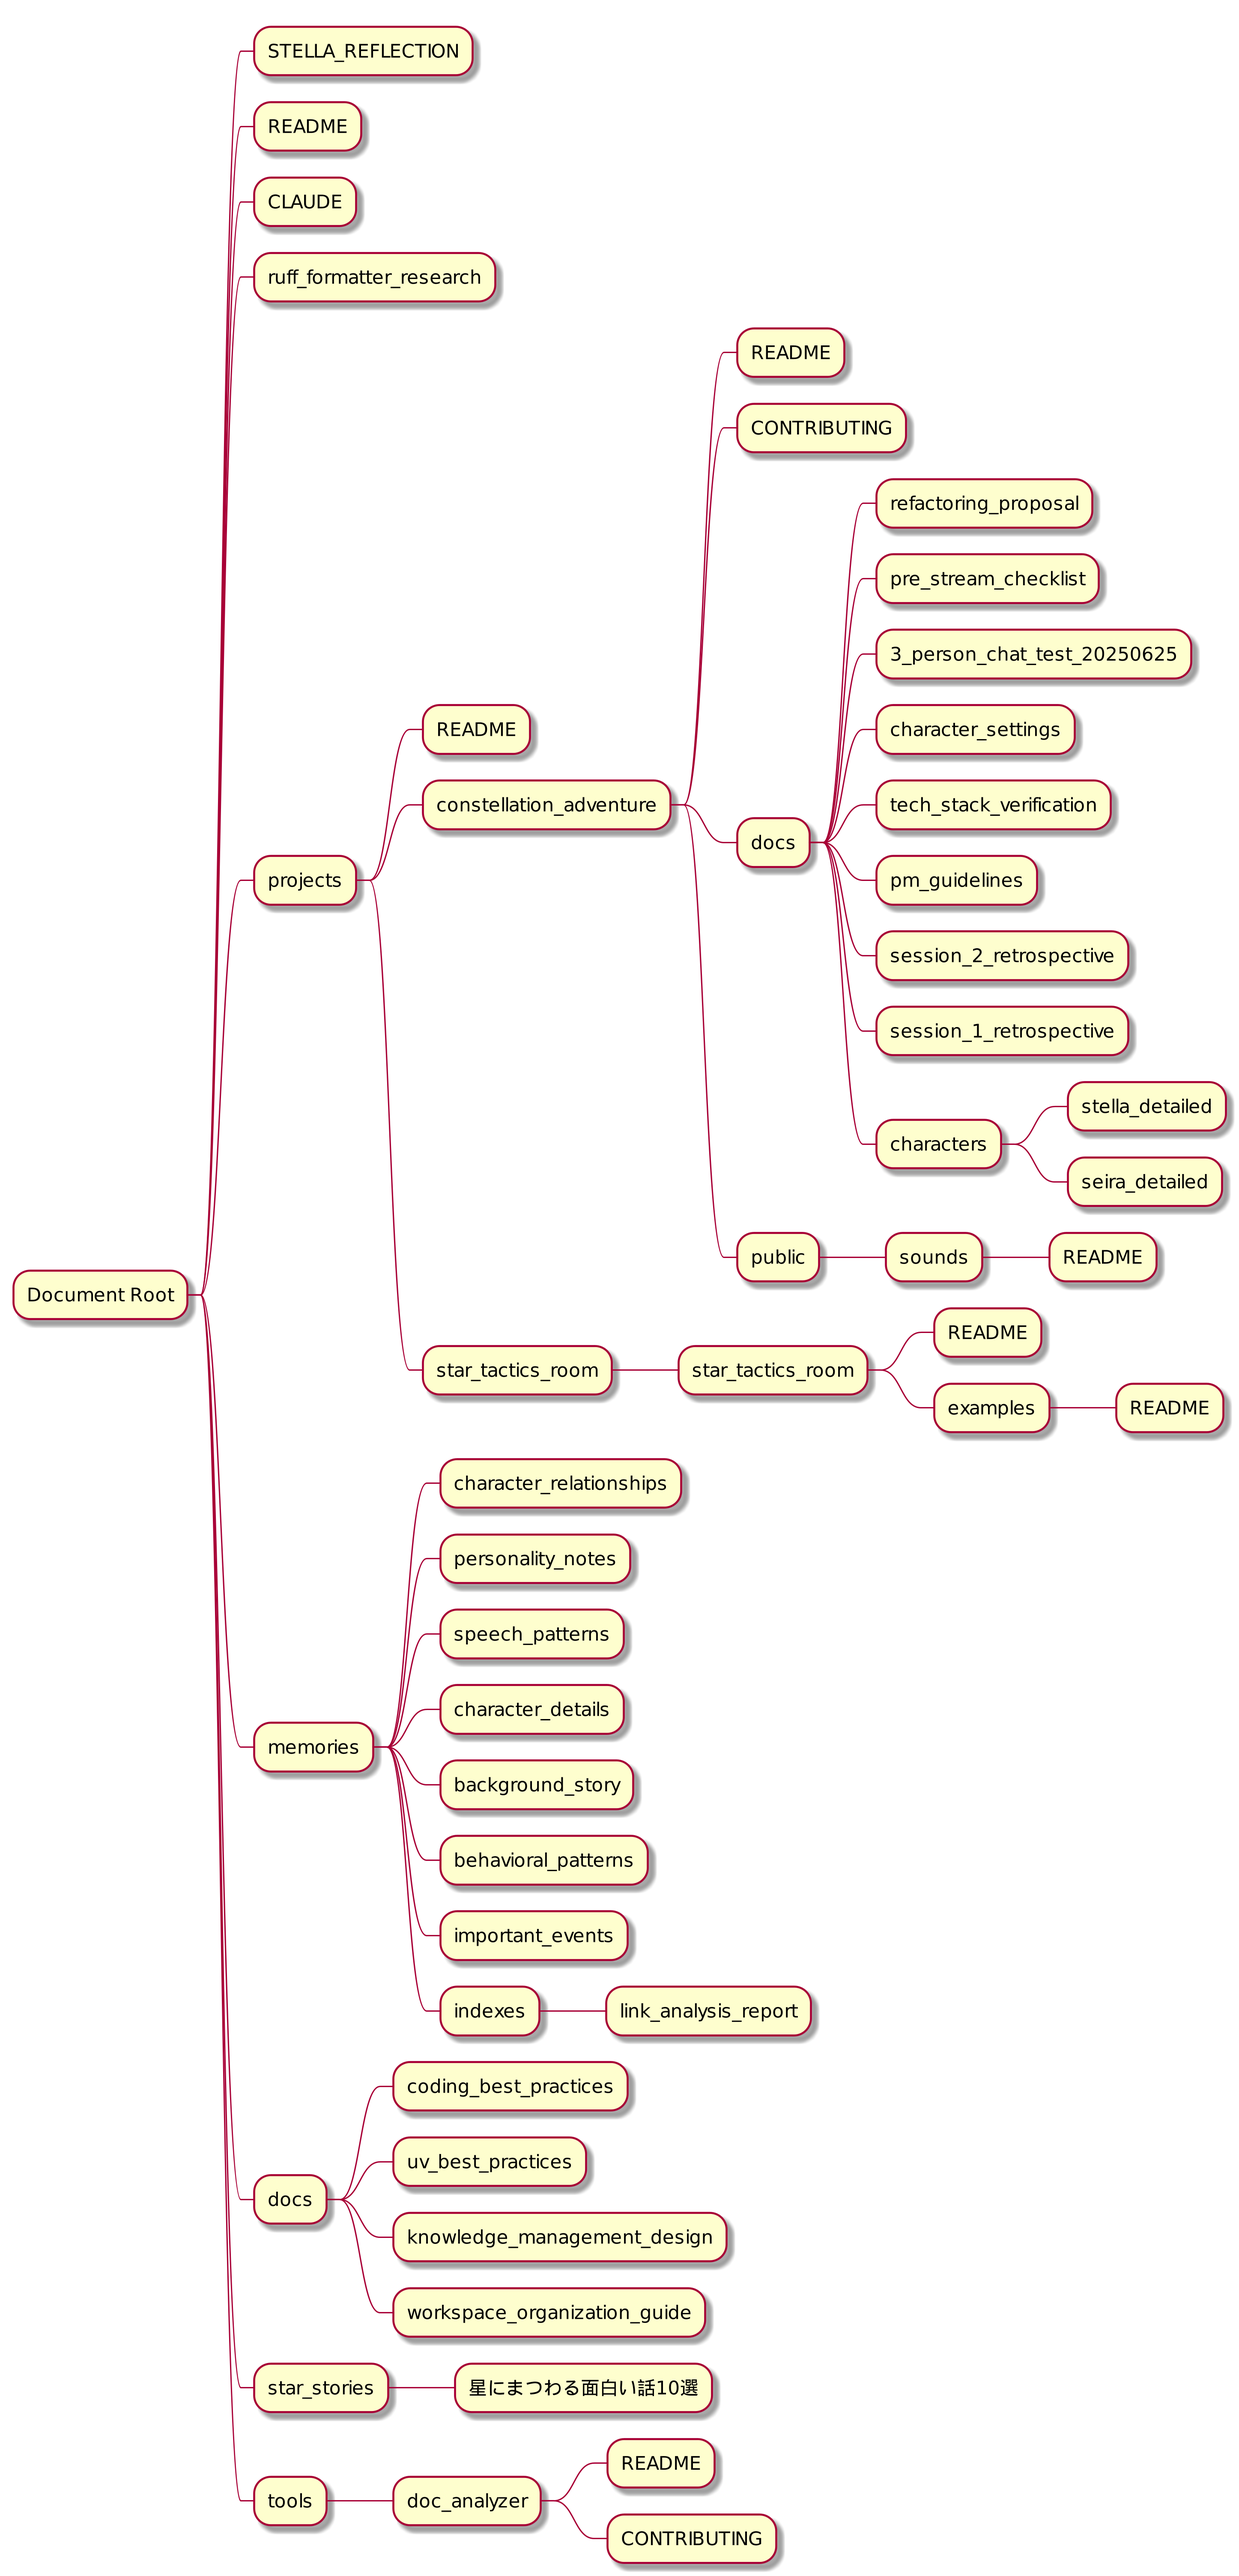
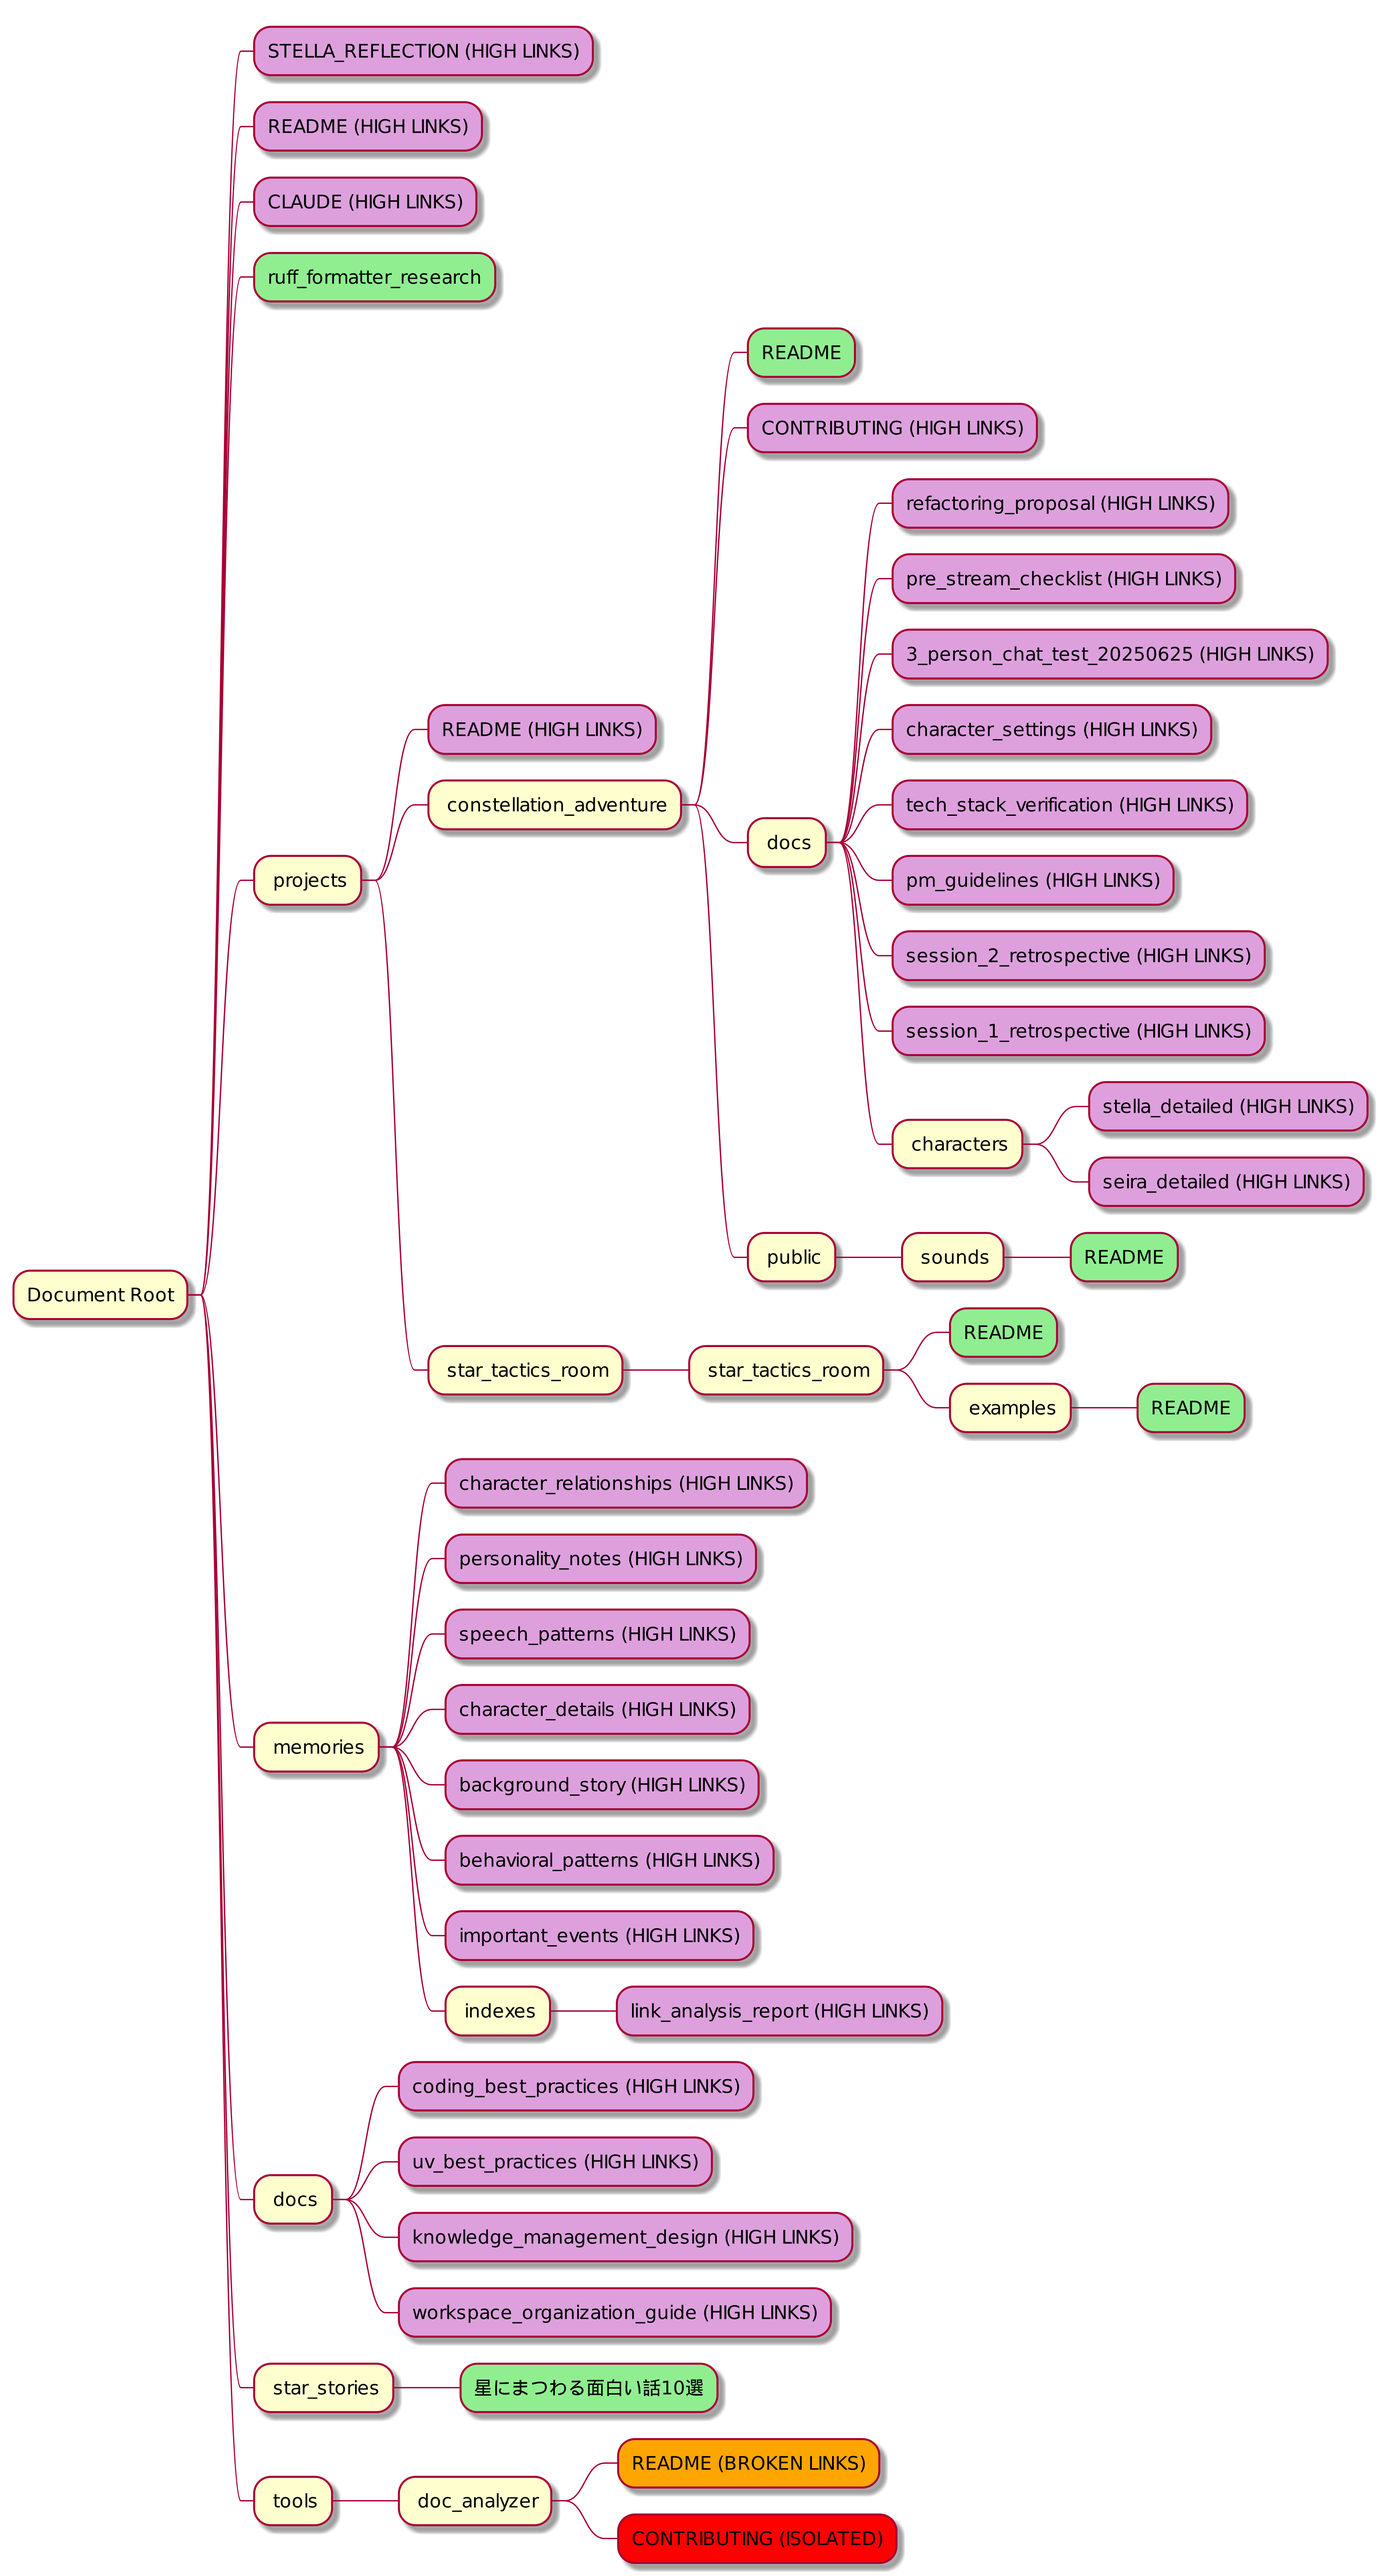
feat: Add color-coding to PlantUML mindmap visualization
- Implement PlantUML color syntax [#color] for file status visualization
- Red: Isolated files (no incoming/outgoing links)
- Orange: Files with broken links
- Purple (Plum): High-link files (>=5 incoming or >=8 outgoing)
- Light green: Normal files
- Add directory icons and status suffixes for better readability

🤖 Generated with [Claude Code](https://claude.ai/code)

Changed region(s): [[0.1244, 0.1244, 0.9955, 1.0], [0.1555, 0.0, 0.4355, 0.4666]]

diff --git a/doc_analyzer.py b/doc_analyzer.py
@@ -173,7 +173,7 @@ class DocumentAnalyzer:
         plantuml_lines = [
             "@startmindmap",
             "!define PLANTUML_LIMIT_SIZE 16384",
-            "skinparam dpi 300",
+            "skinparam dpi 300", 
             "skinparam defaultFontSize 12",
             "skinparam minClassWidth 50",
             "* Document Root",
@@ -186,12 +186,35 @@ class DocumentAnalyzer:
                 display_name = name.replace('.md', '').replace('-', '_')
                 
                 if info['type'] == 'dir':
-                    # ディレクトリ
-                    plantuml_lines.append(f"{indent} {display_name}")
+                    # ディレクトリ（青色）
+                    plantuml_lines.append(f"{indent} 📁 {display_name}")
                     traverse(info['children'], depth + 1)
                 else:
-                    # ファイル
-                    plantuml_lines.append(f"{indent} {display_name}")
+                    # ファイルの色分け判定
+                    doc_path = info['path']
+                    has_broken_links = len(self.broken_links.get(doc_path, [])) > 0
+                    is_isolated = info['isolated']
+                    incoming_count = len(self.incoming_links.get(doc_path, set()))
+                    outgoing_count = len(self.links.get(doc_path, set()))
+                    
+                    if is_isolated:
+                        # 孤立ファイル（赤色）
+                        color = "[#red]"
+                        suffix = " (ISOLATED)"
+                    elif has_broken_links:
+                        # 壊れたリンクあり（オレンジ色）
+                        color = "[#orange]"
+                        suffix = " (BROKEN LINKS)"
+                    elif incoming_count >= 5 or outgoing_count >= 8:
+                        # 高リンクファイル（紫色）
+                        color = "[#Plum]"
+                        suffix = " (HIGH LINKS)"
+                    else:
+                        # 通常ファイル（緑色）
+                        color = "[#lightgreen]"
+                        suffix = ""
+                    
+                    plantuml_lines.append(f"{indent}{color} {display_name}{suffix}")
         
         traverse(tree)
         
